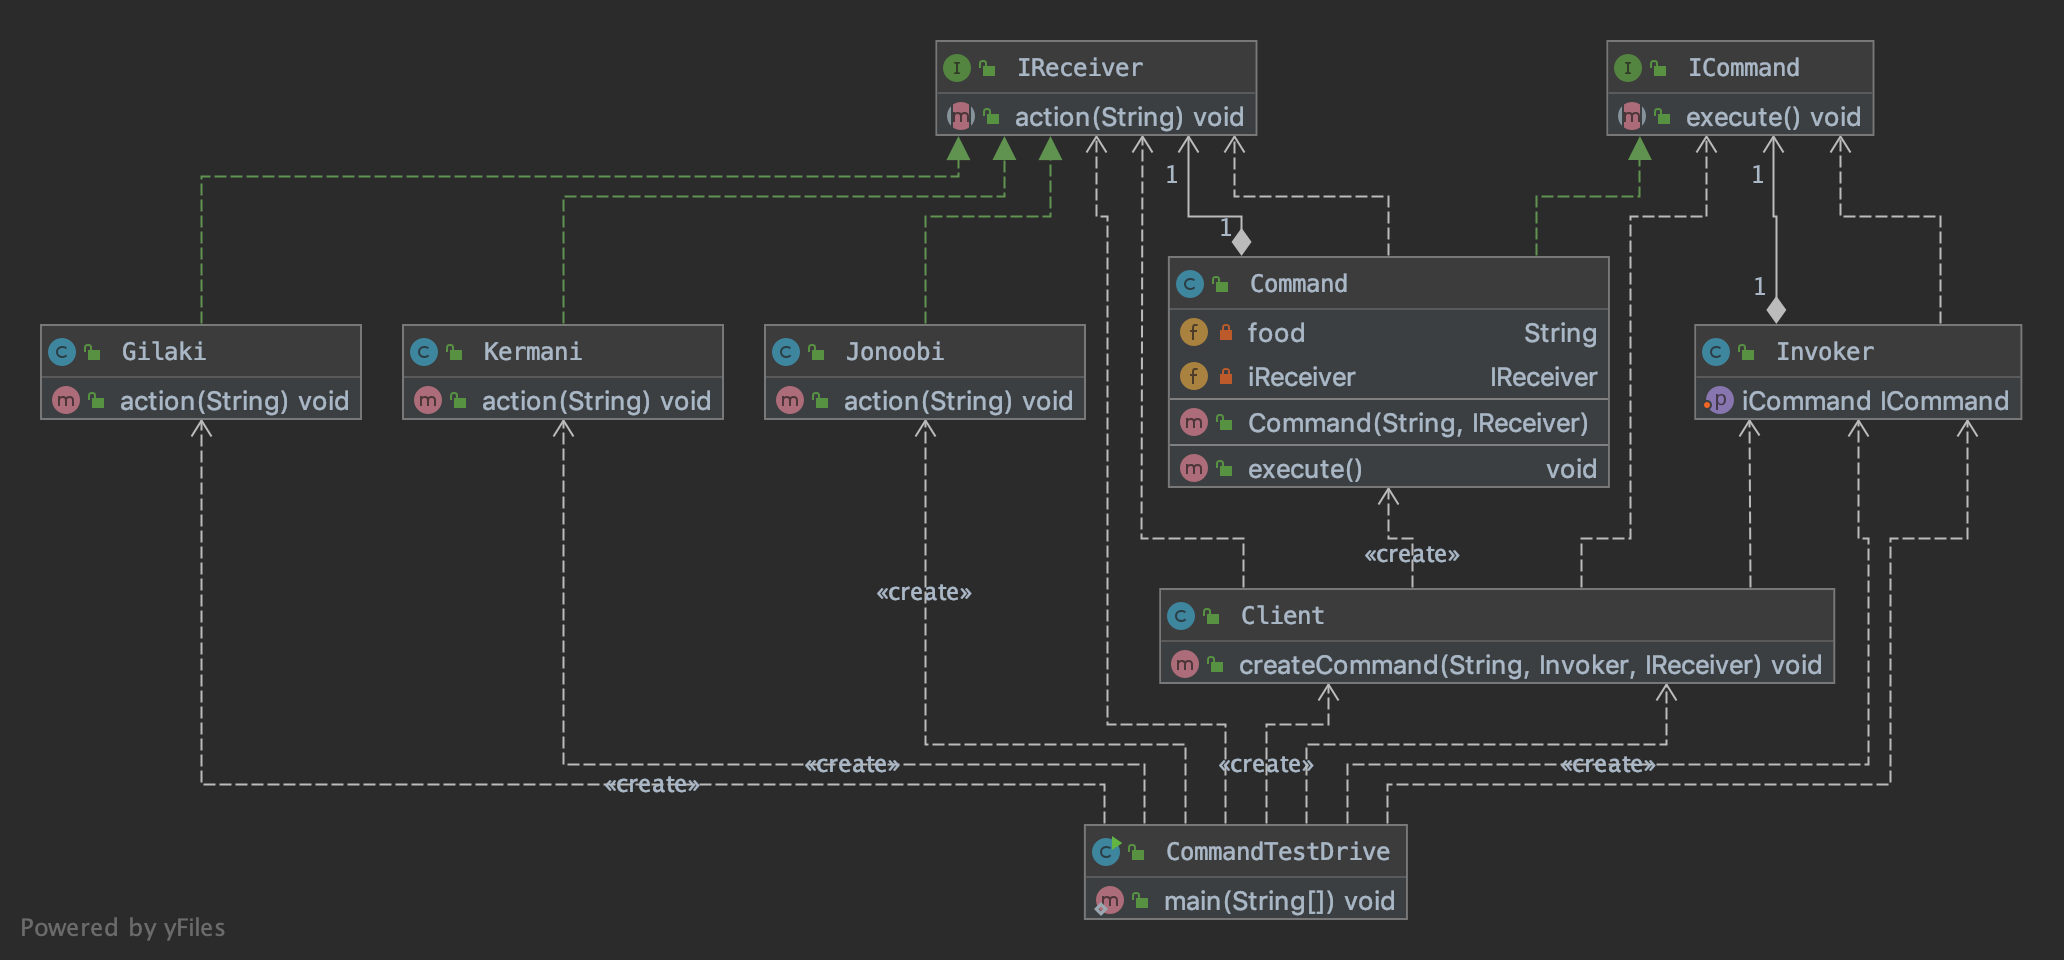
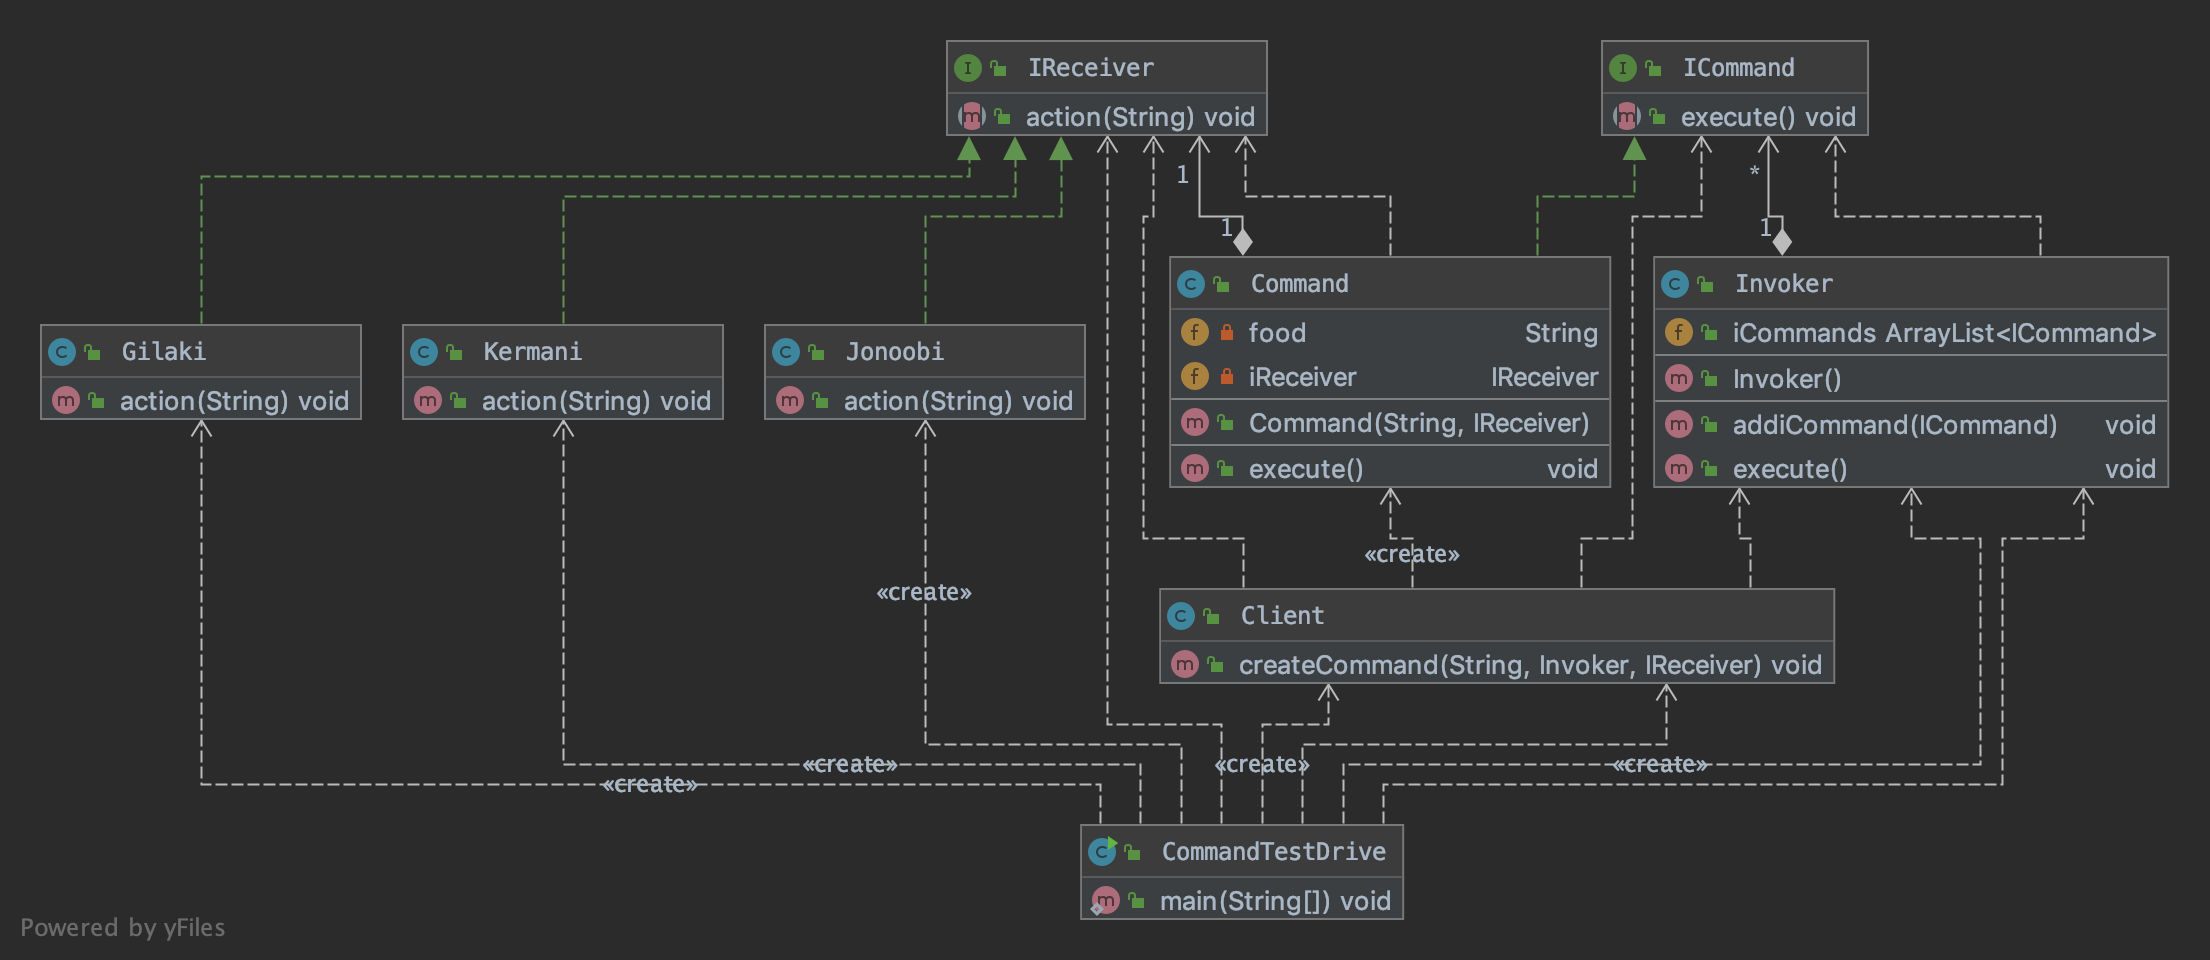
Refactoring for HW4.

diff --git a/HW4/src/Invoker.java b/HW4/src/Invoker.java
@@ -1,7 +1,19 @@
-public class Invoker {
-    public ICommand iCommand;
+import java.util.ArrayList;
 
-    public void setiCommand(ICommand iCommand) {
-        this.iCommand = iCommand;
+public class Invoker {
+    public ArrayList<ICommand> iCommands;
+
+    public Invoker() {
+        this.iCommands = new ArrayList<>();
+    }
+
+    public void addiCommand(ICommand iCommand) {
+        this.iCommands.add(iCommand);
+    }
+
+    public void execute() {
+        for (ICommand iCommand : this.iCommands) {
+            iCommand.execute();
+        }
     }
 }

diff --git a/HW4/src/CommandTestDrive.java b/HW4/src/CommandTestDrive.java
@@ -13,11 +13,10 @@ public class CommandTestDrive {
         IReceiver iReceiver3 = new Jonoobi();
 
         client1.createCommand("Mirzaghasemi", invoker1, iReceiver1);
-        client2.createCommand("dande kabab", invoker2, iReceiver2);
+        client1.createCommand("dande kabab", invoker1, iReceiver2);
         client3.createCommand("ghalie mahi", invoker3, iReceiver3);
 
-        invoker1.iCommand.execute();
-        invoker2.iCommand.execute();
-        invoker3.iCommand.execute();
+        invoker1.execute();
+        invoker3.execute();
     }
 }

diff --git a/HW4/src/Client.java b/HW4/src/Client.java
@@ -1,6 +1,6 @@
 public class Client {
     public void createCommand(String food, Invoker invoker, IReceiver iReceiver){
         ICommand command = new Command(food, iReceiver);
-        invoker.setiCommand(command);
+        invoker.addiCommand(command);
     }
 }
